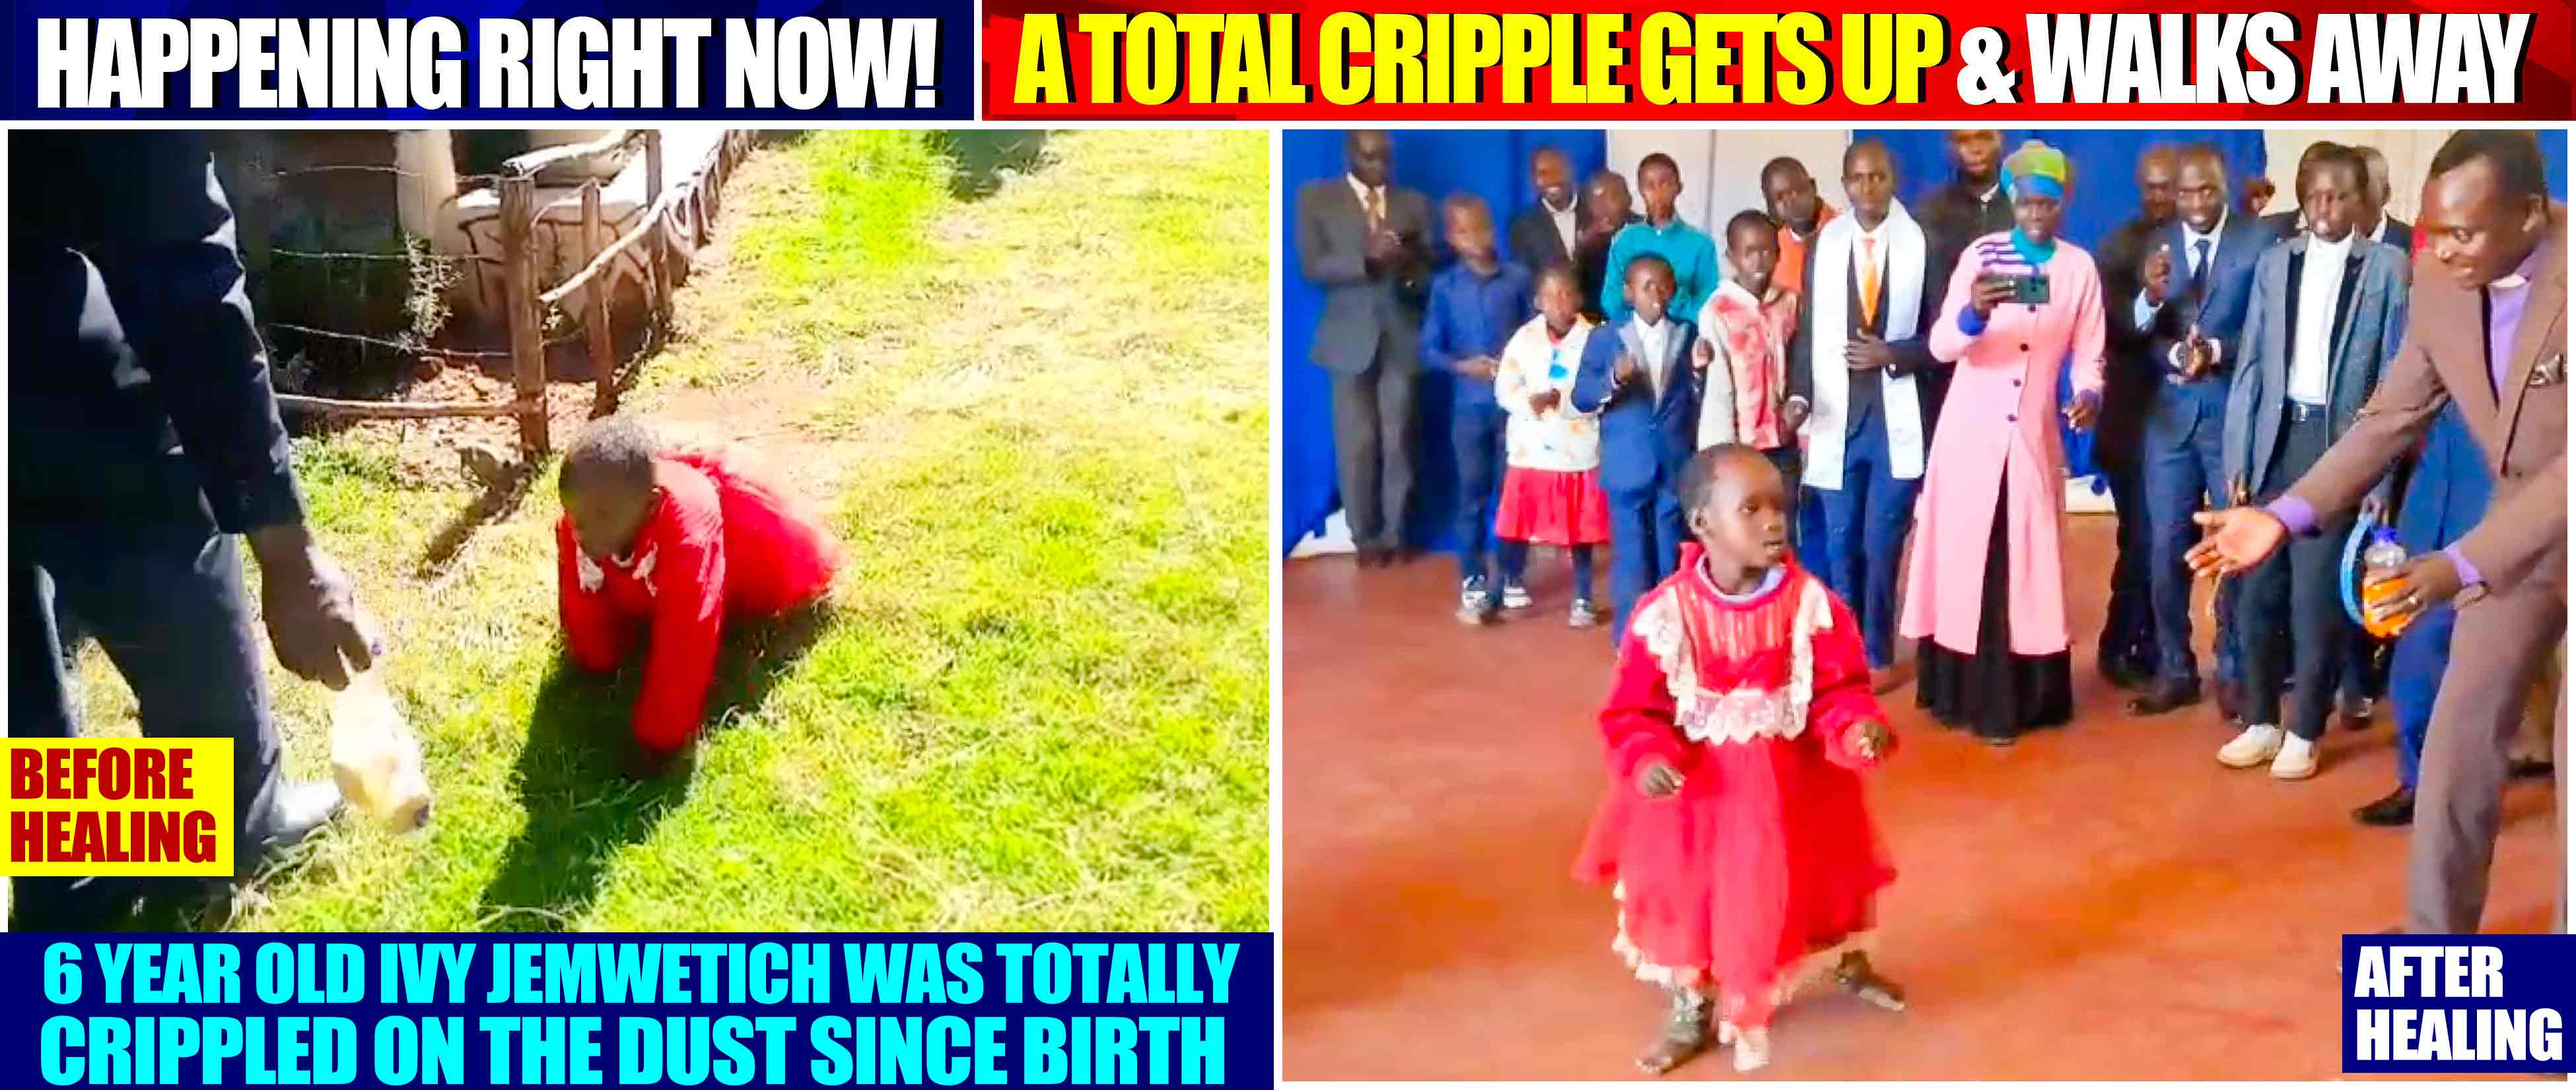
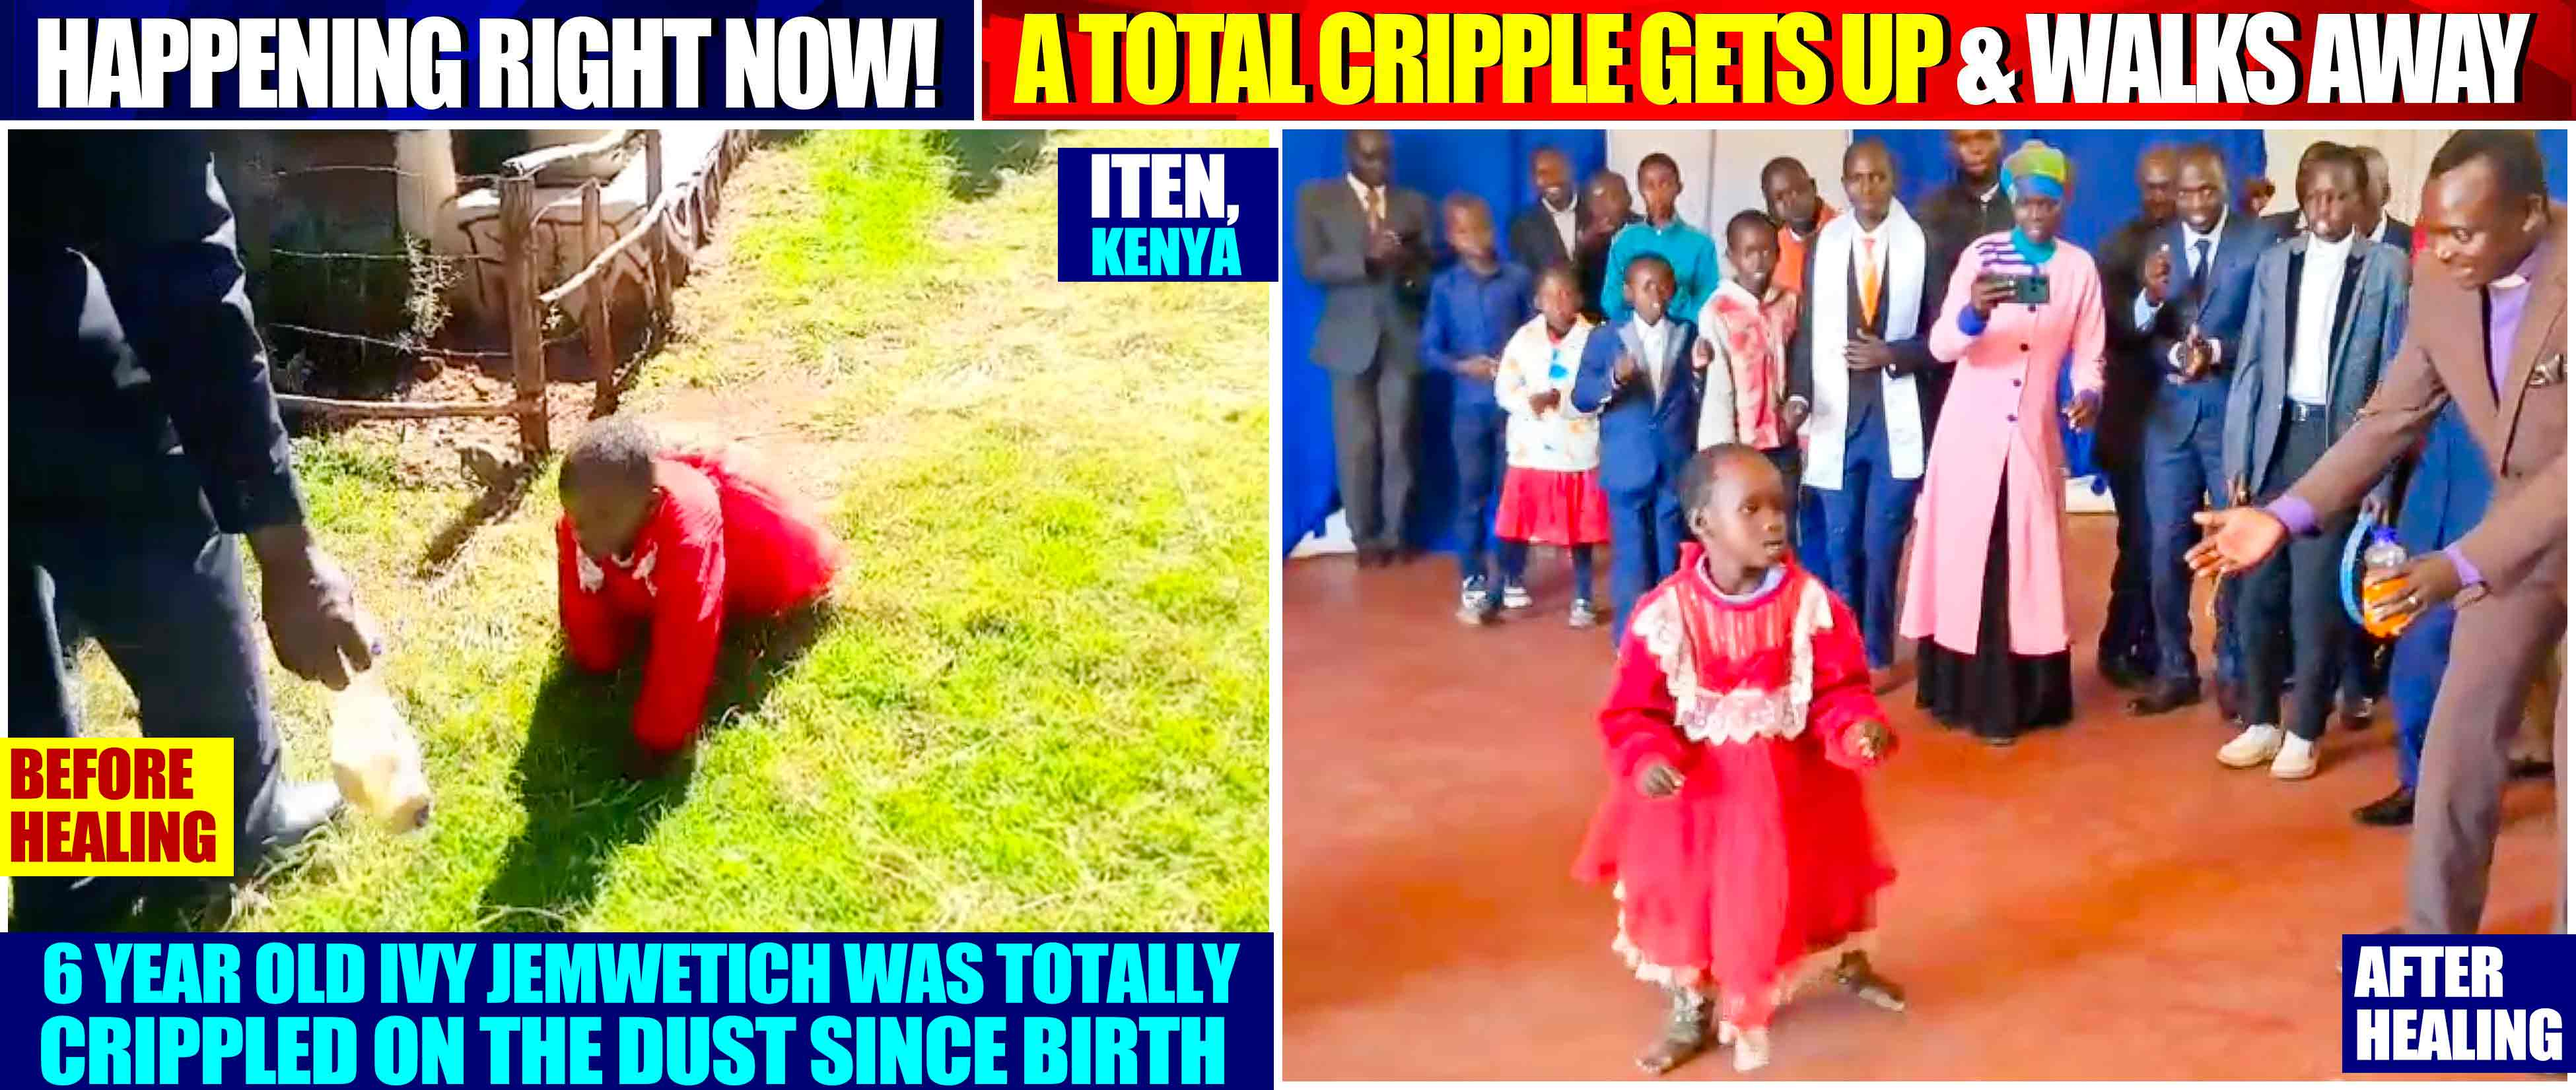
New

Changed region(s): [[0.4032, 0.1235, 0.4963, 0.2778]]

diff --git a/index.html b/index.html
@@ -57,7 +57,7 @@
        <img class="slideshow" src= "https://pub-9f92551086574e82abebdc7b9c83cf92.r2.dev/Caracas%202025/Healing%20Service/Knee-condition.jpg" alt="Unstable internet, please refresh the browser">
 
 
-         <img class="slideshow" src= "https://pub-9f92551086574e82abebdc7b9c83cf92.r2.dev/Caracas%202025/Healing%20Service/Knee-condition.jpg" alt="Unstable internet, please refresh the browser">
+         <img class="slideshow" src= "https://pub-9f92551086574e82abebdc7b9c83cf92.r2.dev/Caracas%202025/Healing%20Service/Iten.jpg" alt="Unstable internet, please refresh the browser">
 
 
 
